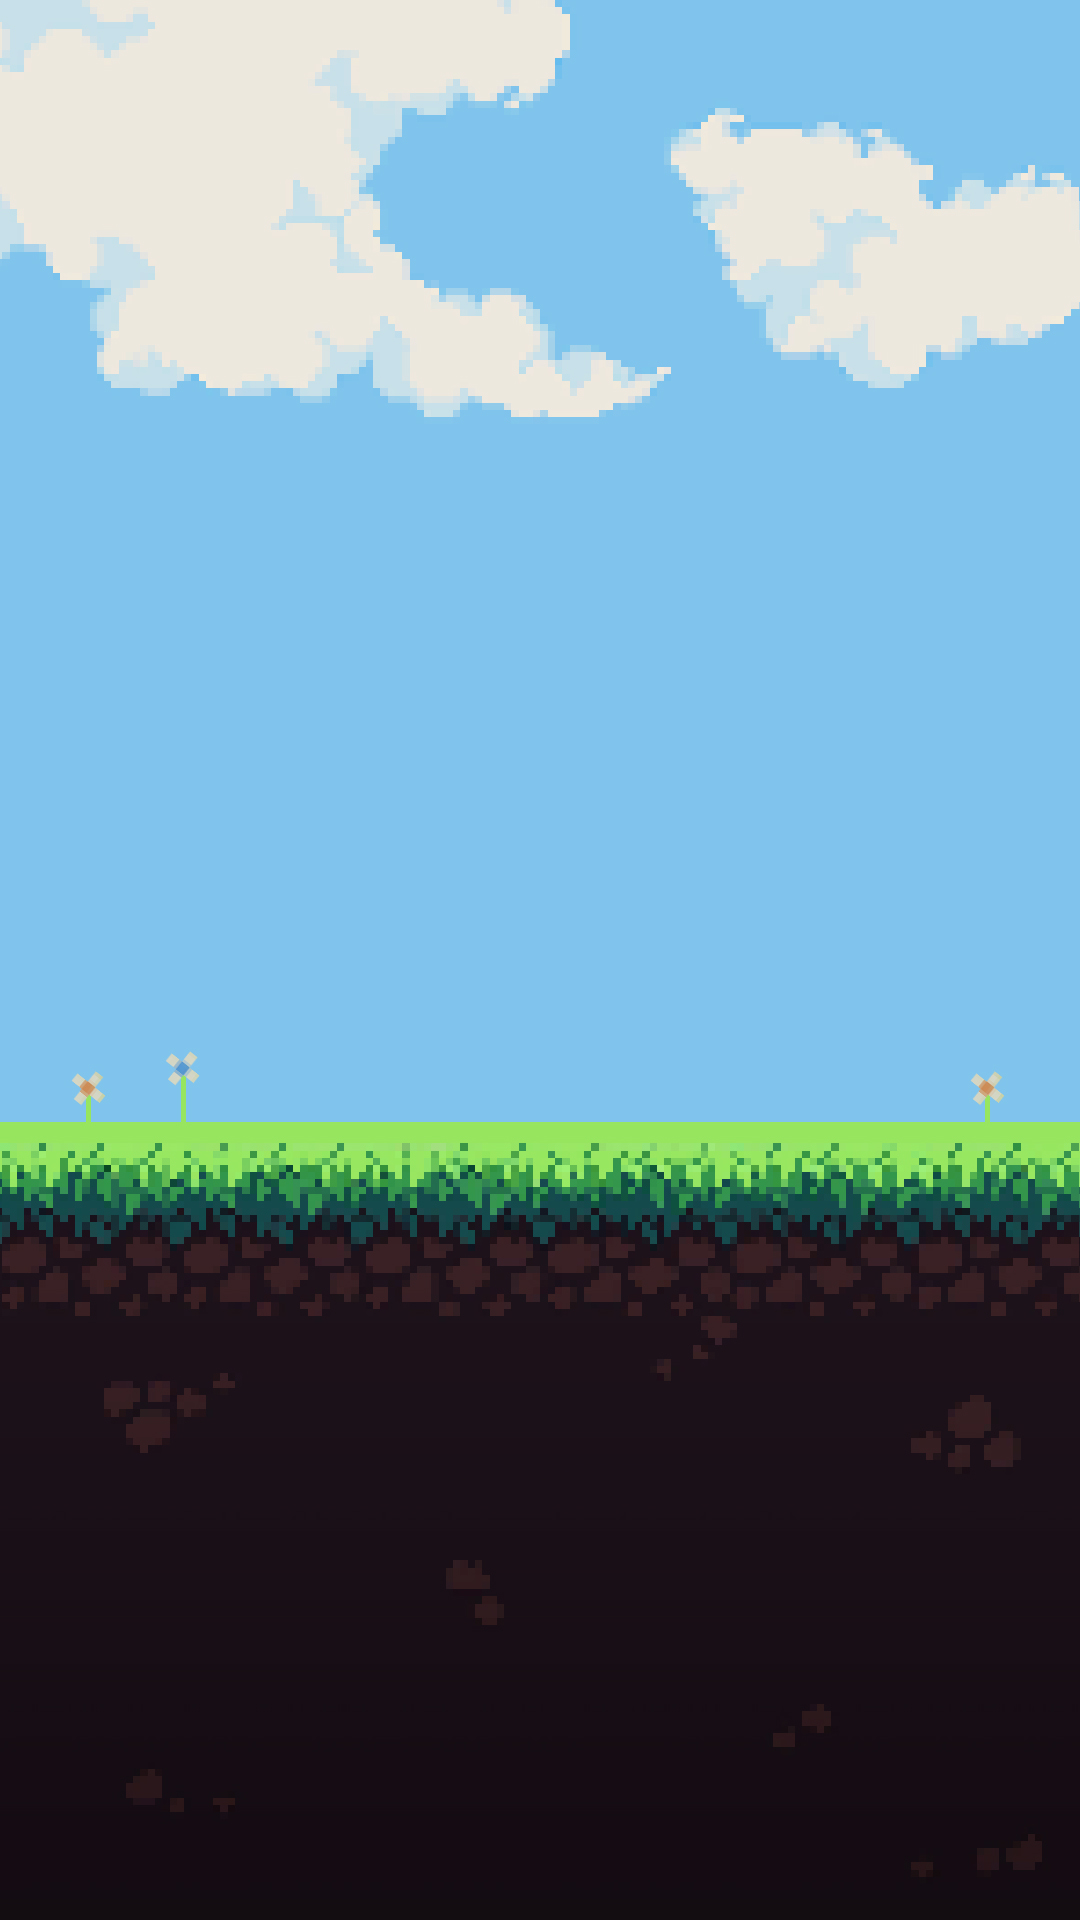
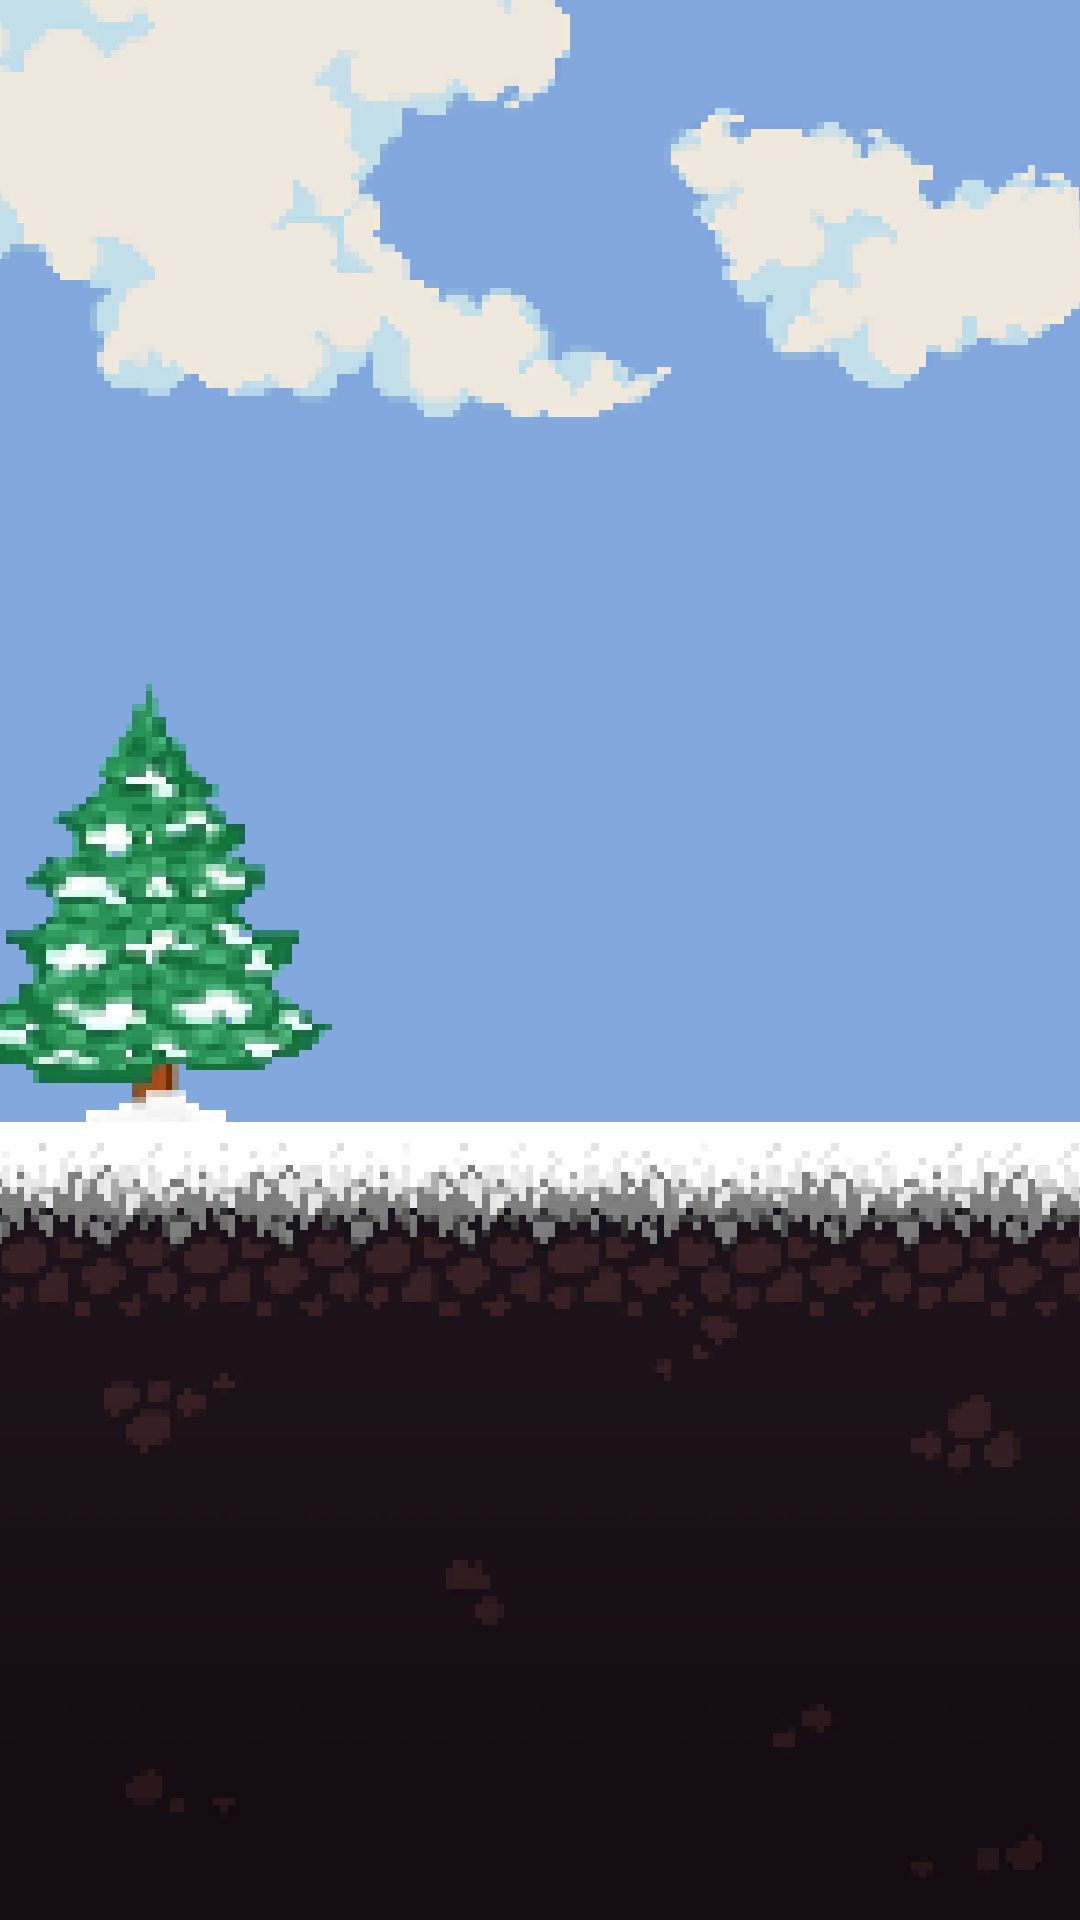
Update game

diff --git a/public/js/snow.js b/public/js/snow.js
@@ -18,16 +18,16 @@ var snowStorm = (function(window, document) {
     this.autoStart = true;          // Whether the snow should start automatically or not.
     this.excludeMobile = false;      // Snow is likely to be bad news for mobile phones' CPUs (and batteries.) Enable at your own risk.
     this.flakesMax = 1000;           // Limit total amount of snow made (falling + sticking)
-    this.flakesMaxActive = 300;      // Limit amount of snow falling at once (less = lower CPU use)
+    this.flakesMaxActive = 200;      // Limit amount of snow falling at once (less = lower CPU use)
     this.animationInterval = 50;    // Theoretical "miliseconds per frame" measurement. 20 = fast + smooth, but high CPU use. 50 = more conservative, but slower
     this.useGPU = true;             // Enable transform-based hardware acceleration, reduce CPU load.
     this.className = null;          // CSS class name for further customization on snow elements
     this.excludeMobile = false;      // Snow is likely to be bad news for mobile phones' CPUs (and batteries.) By default, be nice.
-    this.flakeBottom = 382;        // Integer for Y axis snow limit, 0 or null for "full-screen" snow effect
+    this.flakeBottom = 1090;        // Integer for Y axis snow limit, 0 or null for "full-screen" snow effect
     this.followMouse = false;        // Snow movement can respond to the user's mouse
     this.snowColor = '#fff';        // Don't eat (or use?) yellow snow.
     this.snowCharacter = '&bull;';  // &bull; = bullet, &middot; is square on some systems etc.
-    this.snowStick = true;          // Whether or not snow should "stick" at the bottom. When off, will never collect.
+    this.snowStick = false;          // Whether or not snow should "stick" at the bottom. When off, will never collect.
     this.targetElement = null;      // element which snow will be appended to (null = document.body) - can be an element ID eg. 'myDiv', or a DOM node reference
     this.useMeltEffect = true;      // When recycling fallen snow (or rarely, when falling), have it "melt" and fade out if browser supports it
     this.useTwinkleEffect = false;  // Allow snow to randomly "flicker" in and out of view while falling
@@ -36,11 +36,11 @@ var snowStorm = (function(window, document) {
   
     // --- less-used bits ---
   
-    this.freezeOnBlur = true;       // Only snow when the window is in focus (foreground.) Saves CPU.
+    this.freezeOnBlur = false;       // Only snow when the window is in focus (foreground.) Saves CPU.
     this.flakeLeftOffset = 0;       // Left margin/gutter space on edge of container (eg. browser window.) Bump up these values if seeing horizontal scrollbars.
     this.flakeRightOffset = 0;      // Right margin/gutter space on edge of container
-    this.flakeWidth = 16;            // Max pixel width reserved for snow element
-    this.flakeHeight = 16;           // Max pixel height reserved for snow element
+    this.flakeWidth = 64;            // Max pixel width reserved for snow element
+    this.flakeHeight = 64;           // Max pixel height reserved for snow element
     this.vMaxX = 2;                 // Maximum X velocity range for snow
     this.vMaxY = 2;                 // Maximum Y velocity range for snow
     this.zIndex = 0;                // CSS stacking order applied to each snowflake

diff --git a/public/css/style.css b/public/css/style.css
@@ -9,14 +9,28 @@
     background-position: center center;
 }
 
+#game::after {
+    content: '';
+    position: fixed;
+    top: 0;
+    left: 0;
+    height: 100%;
+    width: 100%;
+    background-image: url('/img/snowman.png');
+    background-size: cover;
+    background-position: center center;
+    z-index: 1;
+    pointer-events: none;
+}
+
 .cat {
-    height: 64px;
-    width: 64px;
+    height: 128px;
+    width: 128px;
     position: absolute;
-    bottom: 266px;
     left: 0;
     transition: 2s;
     font-family: 'VT323', monospace;
+    text-align: center;
 }
 
 .cat > .cat-skin {
@@ -28,13 +42,24 @@
 }
 
 .cat > .cat-avatar {
-    height: 30px;
-    width: 30px;
+    height: 60px;
+    width: 60px;
     object-fit: cover;
     object-position: center;
     border-radius: 100px;
     border: solid 2px rgba(255,255,255,0.5);
-    top: -75px;
-    left: 16px;
+    top: -160px;
     position: relative;
+}
+
+.banner-container {
+    position: fixed;
+    z-index: 999999;
+    left: 0;
+    top: 280;
+    width: 100%;
+    text-align: center;
+}
+
+#banner {
 }

diff --git a/app.js b/app.js
@@ -21,16 +21,27 @@ server.listen(3000, () => {
 });
 
 // Username of someone who is currently live
-let tiktokUsername = "anabeatriz122310";
+let tiktokUsername = "histoireredditenfrancais";
 
 // Create a new wrapper object and pass the username
 let tiktokLiveConnection = new WebcastPushConnection(tiktokUsername);
 
-// Connect to the chat (await can be used as well)
-tiktokLiveConnection.connect().then(state => {
-    console.info(`Connected to roomId ${state.roomId}`);
-}).catch(err => {
-    console.error('Failed to connect', err);
+startTiktokConnection();
+
+function startTiktokConnection(){
+    tiktokLiveConnection.connect().then(state => {
+        console.info(`Connected to roomId ${state.roomId}`);
+    }).catch(err => {
+        console.error('Failed to connect', err);
+        setTimeout(function(){
+            startTiktokConnection();
+        }, 10000);
+    })
+};
+
+tiktokLiveConnection.on('disconnected', () => {
+    console.log('Disconnected :(');
+    startTiktokConnection();
 })
 
 // Define the events that you want to handle

diff --git a/public/js/client.js b/public/js/client.js
@@ -34,6 +34,7 @@ socket.on('member', function(data) {
 // Game
 
 const gameWindow = document.querySelector("#game");
+var catGround = 830;
 
 function createCat(user) {
     // Cat
@@ -44,6 +45,7 @@ function createCat(user) {
     newCat.setAttribute("data-sprite", "0");
     newCat.setAttribute("data-life", "100");
     newCat.style.left = (gameWindow.offsetWidth / 2) + "px";
+    newCat.style.top = catGround + "px";
     
     // Cat > Cat Skin
     let newCatSkin = document.createElement("div");
@@ -142,6 +144,17 @@ setInterval(function(){
         }
     }
 }, 300);
+
+// Params
+const queryString = window.location.search;
+const urlParams = new URLSearchParams(queryString);
+
+setTimeout(function(){
+    console.log(urlParams.get('cats'));
+    if(urlParams.get('cats')) {
+        catGround = urlParams.get('cats');
+    }
+}, 1000);
 
 // Help functions
 function randomNum(min, max) {

diff --git a/index.html b/index.html
@@ -8,12 +8,14 @@
     <link rel="preconnect" href="https://fonts.googleapis.com"><link rel="preconnect" href="https://fonts.gstatic.com" crossorigin><link href="https://fonts.googleapis.com/css2?family=VT323&display=swap" rel="stylesheet">
 </head>
 <body>
+    <div class="banner-container">
+        <img id="banner" src="/img/banner.png">
+    </div>
     <div id="game">
 
     </div>
     <script src="https://cdn.socket.io/4.5.4/socket.io.min.js"></script>
     <script src="/js/client.js"></script>
     <script src="/js/snow.js"></script>
-    <script src="/js/pwabuilder-sw.js"></script>
 </body>
 </html>
